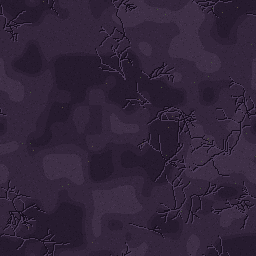
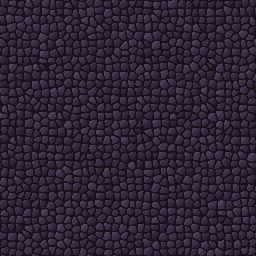
實境冒險墓穴：地面改成一塊塊的小土塊（類似魔獸的腐土），加上會明滅的螢綠亡者光芒
Claude-Session: https://claude.ai/code/session_01Dzx97icuCcATiJaxUihh8w

diff --git a/real/index.html b/real/index.html
@@ -87,7 +87,9 @@ function decoOf(sx,sy){var zx=Math.floor(sx*SUB/ZONE),zy=Math.floor(sy*SUB/ZONE)
   if(z.k==='tomb'){
     /* 墓碑：每格一半機率 1 個（跟樹一樣半透明、會遮擋） */
     if(h32('ts',sx,sy,PER)%2){var sk='tomb_stone'+(1+h32('tsk',sx,sy,PER)%5),tx=(sx+.1+.8*r01('tsx',sx,sy,PER))*SUB,ty=(sy+.1+.8*r01('tsy',sx,sy,PER))*SUB;
-      if(!L.some(function(q){return Math.hypot(q.x-tx,q.y-ty)<20}))L.push({x:tx,y:ty,im:IM[sk],big:BIGH[sk],sh:1})}}
+      if(!L.some(function(q){return Math.hypot(q.x-tx,q.y-ty)<20}))L.push({x:tx,y:ty,im:IM[sk],big:BIGH[sk],sh:1})}
+    /* 螢綠的亡者光芒：大約每 4 格 1 處（道路上不出現），貼在地上慢慢明滅 */
+    if(r01('tg',sx,sy,PER)<.25)L.push({x:(sx+.1+.8*r01('tgx',sx,sy,PER))*SUB,y:(sy+.1+.8*r01('tgy',sx,sy,PER))*SUB,glow:1,flat:1,ph:h32('tgp',sx,sy)%6283/1000})}
   if(z.k==='snow'){
     /* 覆雪的石頭：每格一半機率 1 個，不透明，有陰影 */
     if(h32('sr',sx,sy,PER)%2){var rk='snow_rock'+(1+h32('srk',sx,sy,PER)%3),rx=(sx+.1+.8*r01('srx',sx,sy,PER))*SUB,ry=(sy+.1+.8*r01('sry',sx,sy,PER))*SUB,ri=IM[rk];
@@ -132,7 +134,12 @@ function draw(now){
     var mo=monOf(sx,sy);if(mo&&inWater(mo.x,mo.y))mo=null;/* 怪物不會出現在水上 */if(mo){MONS.push(mo);objs.push({t:'m',o:mo,y:mo.y})}
     decoOf(sx,sy).forEach(function(d){if(d.flat){if(!nearRoad(d.x,d.y,9))flats.push(d);return}if(mo&&Math.hypot(d.x-mo.x,d.y-mo.y)<(d.pyr?60:d.big?20:14))return;if(nearRoad(d.x,d.y,d.pyr?45:d.big?12:9))return;objs.push({t:'d',o:d,y:d.y})})}
   /* 平貼在地上的東西（石塊路）先畫，不參與遮擋 */
-  flats.forEach(function(o){if(!o.im)return;var s=scr(o.x,o.y);cx.drawImage(o.im,Math.round(s[0]-o.im.width/2),Math.round(s[1]-o.im.height/2))});
+  flats.forEach(function(o){if(o.glow){var g=scr(o.x,o.y),gx=Math.round(g[0]),gy=Math.round(g[1]),a=.45+.4*Math.sin(now/700+o.ph);
+    cx.save();cx.globalAlpha=a*.25;cx.fillStyle='#4dff7a';cx.beginPath();cx.ellipse(gx,gy,9,5,0,0,Math.PI*2);cx.fill();
+    cx.globalAlpha=a*.45;cx.beginPath();cx.ellipse(gx,gy,5,3,0,0,Math.PI*2);cx.fill();
+    cx.globalAlpha=Math.min(1,a+.2);cx.fillStyle='#b8ffc8';cx.fillRect(gx-1,gy-1,2,2);
+    /* 幾顆往上飄的光點 */for(var q=0;q<3;q++){var t=((now/2400+o.ph+q/3)%1),px=gx+Math.round(Math.sin((t*6)+q*2+o.ph)*3)+(q-1)*3,py=gy-Math.round(t*14);cx.globalAlpha=(1-t)*a;cx.fillStyle='#7dffa0';cx.fillRect(px,py,1,1)}
+    cx.restore();return}if(!o.im)return;var s=scr(o.x,o.y);cx.drawImage(o.im,Math.round(s[0]-o.im.width/2),Math.round(s[1]-o.im.height/2))});
   objs.push({t:'p',y:me.y});
   objs.sort(function(a,b){return b.y-a.y});
   objs.forEach(function(q){var o=q.o;
